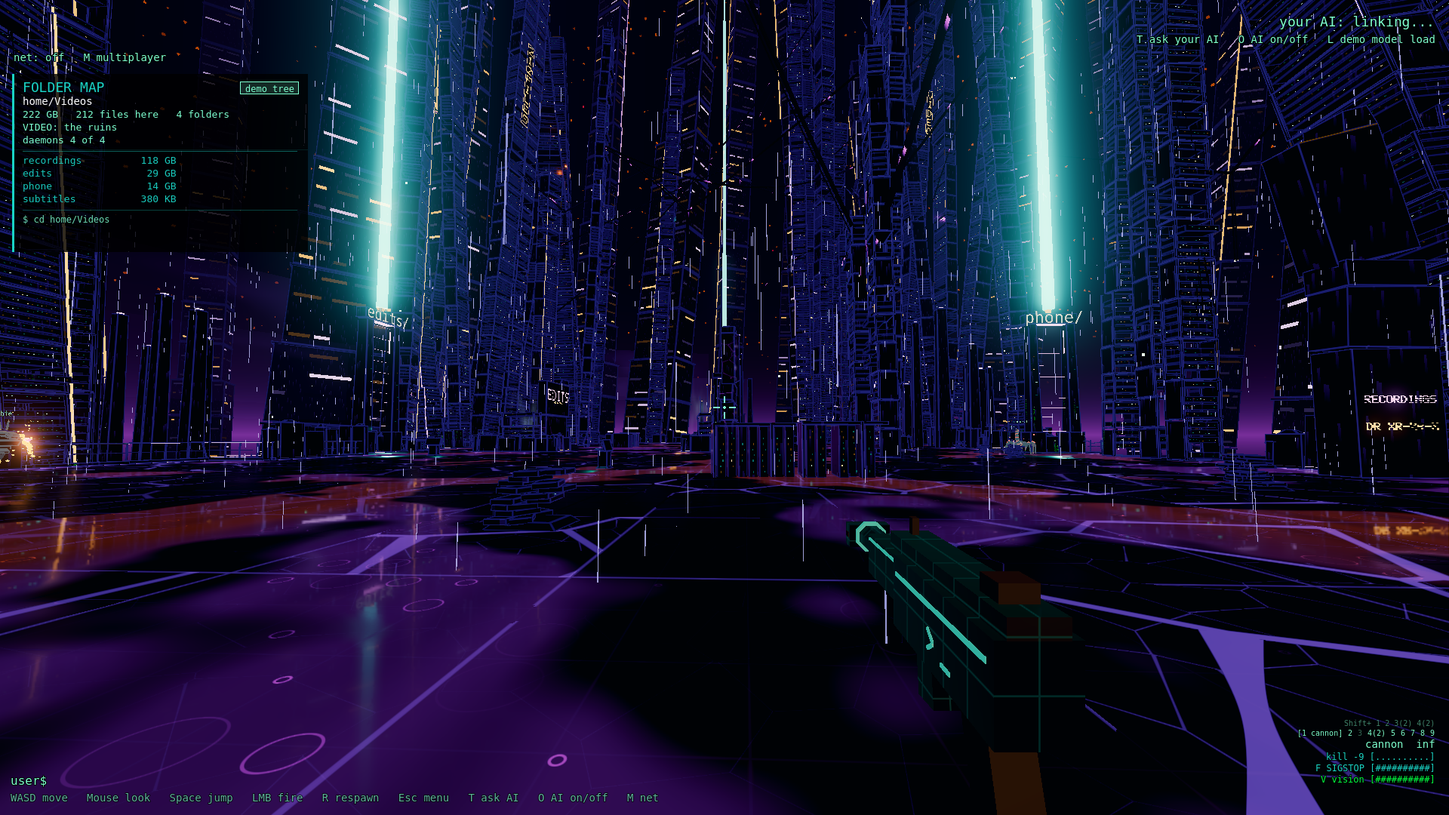
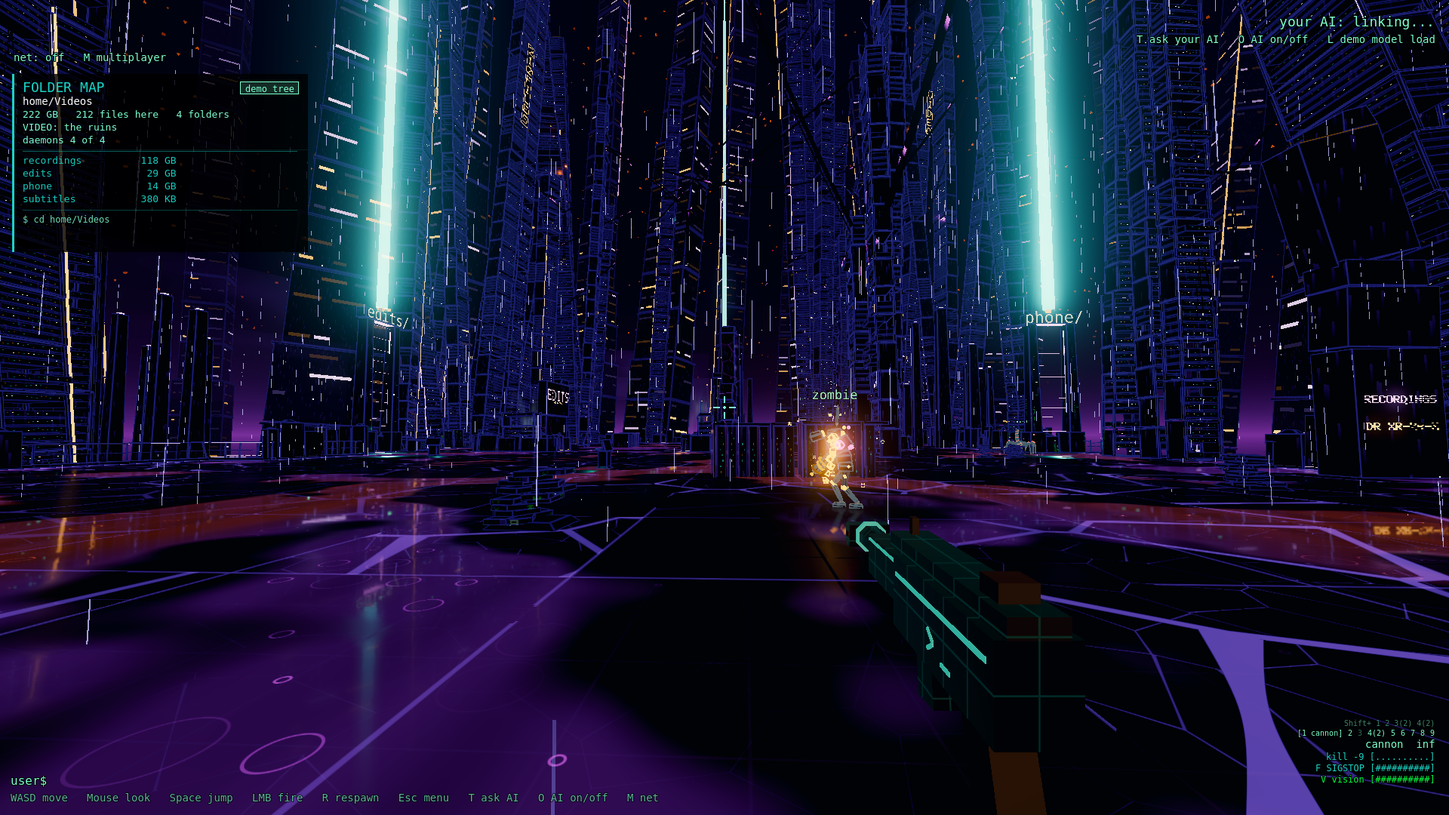
P2 item 7 and the pass's docs: W2's stills retaken with a room's own daemons; P2 done in the README and PRD
WHAT: tools/capture_shots.gd's w2 set stands one of a room's own daemons on the floor in the line of sight before the big room's and the small room's shots (_w2_stage(): the nearest living one moved, facing the camera, nothing added); w2-big (a zombie in Videos) and w2-small (a rogue.d in subtitles) re-shot on the private display, demo data, their alt text saying so. P1's audit line on C37's dropped unlock toasts corrected in DESIGN: M2 (4958fcd) already keeps the waiting toasts across a reload. README: P2 in "Where we are" as done, the Done list, Next, the roadmap row done. PRD v2.5: the P2 row done with its commits, 74 steps, what remains after P2. DESIGN: "P2 as built" in Decided (added after P1's, every existing line kept), item 7 and the first two gates in State.
WHY: the producer's P2 list, item 7: the most visible small known issues; the rest of P1's player-facing list stays open with P1's reasons (a reflection pass, five weapons' launch points, a real-layer change, a new key, by design).

LR-T: p2, polish, w2, captures, docs, prd-v2.5
LR-D: tools, docs
LR-K: p2-item-7, p2-done, w2-stills

diff --git a/README.md b/README.md
@@ -22,7 +22,7 @@
 ## Where we are
 
 - **Pre-alpha.** The latest release is [v0.33.0-prealpha](https://github.com/nixfred/sigkill/releases/tag/v0.33.0-prealpha) (build 33, 2026-10-30, a GitHub pre-release). It came before the opener, so the opener is on `main` only for now.
-- **Built and playable on `main`: the opener, the whole seven-mission campaign, the credits, all seven of M5's world features (W1 to W7) and P1, the first polish pass:**
+- **Built and playable on `main`: the opener, the whole seven-mission campaign, the credits, all seven of M5's world features (W1 to W7), and P1 and P2, the two polish passes:**
   - the Tron arena and its skyline
   - 13 weapons, with light skins, mods and unlocks
   - SIGSTOP bullet time, code-rain vision, root and `sudo`
@@ -154,7 +154,7 @@
     - **The HUD:** a VOICE chip under the round's lines (listening, with a ripple of bars, and the honest line: lines arrive a few seconds after they are said; or off, and why), and a toast for each command heard, in the colour of what it sets off, with what came of it. It shows a command's name, never a word of what was said: no line is kept, logged, shown or sent anywhere, your AI included. Talk from a TV or other media is skipped, and a line that begins "Larry, tell" is never a command.
     - **Try it with no transcript program:** Esc, **Voice commands** plays the arena with a made-up feed of lines, so you can watch it work.
   - **the first polish pass (P1):** the cover drone keeps its recharge through an arena reload (R no longer hands a fresh one straight back), and a match started from a mission, the folder map, the theme shift, keybind gunplay or the packet tracer now reloads into the plain arena instead of leaving its district and daemons standing under the match.
-  - **the second polish pass (P2), under way:** one item at a time, what you see first: this page's stale tags gone; W3's Latte zombie outlined in the theme's red under a light theme, so it no longer melts into the paper; the packet tracer's banners stacked at the top of the screen, each on its own plate and two at most, so INTERCEPTED never sits over the man in the middle you are meant to shoot; the co-op revive ring remade as a ring of segments with a low curtain of light, lit round as the revive fills and red while nobody is on it, readable from across the arena or standing in it; a shot a target refuses now reads as refused, never as a hit (a cold steel ripple where it met, a blocked marker at the crosshair, nothing counted as landed), and the last mission's bolts are drawn bigger in their own deep red; the relay proven carrying every protocol since 10 on this machine alone, a full room of four with everything firing, its packet rate raised to fit it (nothing goes live until Fred says so); then the most visible small known issues.
+  - **the second polish pass (P2), new:** one item at a time, what you see first: this page's stale tags gone; W3's Latte zombie outlined in the theme's red under a light theme, so it no longer melts into the paper; the packet tracer's banners stacked at the top of the screen, each on its own plate and two at most, so INTERCEPTED never sits over the man in the middle you are meant to shoot; the co-op revive ring remade as a ring of segments with a low curtain of light, lit round as the revive fills and red while nobody is on it, readable from across the arena or standing in it; a shot a target refuses now reads as refused, never as a hit (a cold steel ripple where it met, a blocked marker at the crosshair, nothing counted as landed), and the last mission's bolts are drawn bigger in their own deep red; the relay proven carrying every protocol since 10 on this machine alone, a full room of four with everything firing, its packet rate raised to fit it (nothing goes live until Fred says so); and the folder map's stills retaken so a room's own daemons show in them.
   - **the ruins (C36):** the places the missions happen in, all made in code. Decaying server-farm and filesystem ruins:
     - rack towers toppling and half sunk into the abyss, their status lights dying;
     - cut cables swinging and sparking, cracked floors glowing from below, holes into the void;
@@ -169,9 +169,9 @@
     Every district is seeded: the same set always builds the same place, no two racks or monoliths are alike, and every point a mission needs can be walked to from the start. Mission 1 stands in one, and at the vent the world tears from Tron into the ruins. Mission 2 adds a fourth district, the closed terminals, with a dead storefront built into its edge, mission 3 a fifth, the cache lines, with a field of 60 walls that rewrite themselves in its middle, and mission 4 a sixth that is not ruins at all: the records vault, a pristine guarded hall of record stacks (M4 measured its hold at 7.37 ms under the power-saver profile). Mission 6 remakes the C36 `deep_dirs` as the deep directories proper: three terraces stepping down into black water, with its own palette. The GPU time, measured at 1920x1080 on a recent laptop GPU, is about 2.8 ms a frame (C37 measured mission 1's busiest fight, the pack in the plaza: 2.47 ms; M2 mission 2's, the queue awake at the storefront: 2.98 ms; M3 mission 3's, a core forking in the cache lines: 2.53 ms; its final captures read 8.75 and 9.62 ms with the dev machine rebooted into its power-saver profile, the profile's numbers, not the scene's).
 - **Also on `main`, the teaser tool (T1):** `tools/trailer_capture.sh` renders the teaser's raw footage as real in-game clips on demo data ([docs/TRAILER.md](docs/TRAILER.md)).
 - **The teaser:** 70 seconds of that footage, with an original soundtrack, for the top of [playsigkill.com](https://playsigkill.com). The edit and the music are the producer's.
-- **Docs (D1) done:** [the PRD](docs/PRD.md) is the entire, current PRD (v2.5 now, with P2 under way): what is 1.0 and what comes after, every feature, the safety rules, and every chunk with its status.
-- **Done:** C37, mission 1 (`login`) end to end; M2, mission 2 (`defunct`) end to end; M3, mission 3 (`while true`) end to end; M4, mission 4 (`permission denied`) end to end; M5, mission 5 (`sudo !!`) end to end; M6, mission 6 (`nohup`) end to end; M7, mission 7 (`kill -9`, the final mission) end to end; C43, the Audit Trail visor; C44, the credits roll; W1, live process enemies (the process hunt); W2, filesystem maps (the folder map); W3, theme-shift levels (the theme shift); W4, keybind gunplay; W5, the packet tracer arena; W6, split-screen co-op; W7, voice commands; P1, the first polish pass.
-- **Next:** the 1.0 feature plan is complete. What remains before 1.0 waits on Fred: the relay's hosting (room codes stay "not live yet" until then) and a release. P2, the second polish pass, is under way (above). The producer is verifying the latest chunks, and nobody has hand-played M5's world features or the missions yet: every pace and number so far is a scripted bot's, so expect tuning once people play.
+- **Docs (D1) done:** [the PRD](docs/PRD.md) is the entire, current PRD (v2.5 now, with P2): what is 1.0 and what comes after, every feature, the safety rules, and every chunk with its status.
+- **Done:** C37, mission 1 (`login`) end to end; M2, mission 2 (`defunct`) end to end; M3, mission 3 (`while true`) end to end; M4, mission 4 (`permission denied`) end to end; M5, mission 5 (`sudo !!`) end to end; M6, mission 6 (`nohup`) end to end; M7, mission 7 (`kill -9`, the final mission) end to end; C43, the Audit Trail visor; C44, the credits roll; W1, live process enemies (the process hunt); W2, filesystem maps (the folder map); W3, theme-shift levels (the theme shift); W4, keybind gunplay; W5, the packet tracer arena; W6, split-screen co-op; W7, voice commands; P1, the first polish pass; P2, the second polish pass.
+- **Next:** the 1.0 feature plan is complete. What remains before 1.0 waits on Fred: the relay's hosting (room codes stay "not live yet" until then) and a release. The producer is verifying the latest chunks, and nobody has hand-played M5's world features or the missions yet: every pace and number so far is a scripted bot's, so expect tuning once people play.
 - **Try the opener** from source: Esc, then "Play the opener", or start with the flag, `godot --path . -- --demo --opener` (a build of `main` takes it the same way, after `--`). A build of `main` also shows the first-launch card and plays it once by itself; the v0.33.0 release came before the opener.
 - **Play the missions** from source: Esc, then **Missions**, and Enter on `01 login`; `02 defunct` opens once `login` is done, `03 while true` once `defunct` is, `04 permission denied` once `while true` is, `05 sudo !!` once `permission denied` is, `06 nohup` once `sudo !!` is, and `07 kill -9`, the final mission, once `nohup` is (they are solo, so not in a match). To start one at once: `godot --path . -- --demo --mission=login` (or `--mission=defunct`, `--mission=while_true`, `--mission=permission_denied`, `--mission=sudo_bang`, `--mission=nohup`). The v0.33.0 release came before the missions too.
 - **Try the Audit Trail visor:** press I in the arena or a mission, I again to put it away (rebindable in Settings, Controls, as "audit visor"). From source it can start on: `godot --path . -- --demo --visor`.
@@ -2568,7 +2568,7 @@ Status from `git log`. Hashes are the commits that finished each chunk.
 | Website, teaser and docs | T1 the teaser's footage: real in-game clips on demo data, rendered with Movie Maker by `tools/trailer_capture.sh` ([docs/TRAILER.md](docs/TRAILER.md); `b2392e8`, `f17ae86`, `bb82508`, `1087887`) · the 70 second edit and its soundtrack (the producer's) for playsigkill.com · D1 the PRD rewritten as the entire, current PRD (v0.3), this README's "Where we are", three community credits (`e1e658d`, `e79b9e5`) | 🟡 T1 footage and D1 done; the edit, the music and the site are the producer's |
 | M5 Your machine is the world | Filesystem maps, process enemies, theme levels, keybind gunplay, voice commands, packet tracer arena, split-screen co-op · C43 Audit Trail visor, built (`f6d5f8d`) · C44 the in-game credits roll, built (`861b015`, `4d3f012`) · W1 live process enemies, built (`3e74f6c`, `02d3441`) · W2 to W4 built · W5 the packet tracer arena, built (`6cf0855`, `a33539a`, `defffa7`) · W6 split-screen co-op, built (`05e9543`, `9de06b0`, `1357bf6`) · W7 voice commands, built (`3bc895a`, `900480c`, `dc81af9`, `102616f`) | 🟢 C43, C44 and W1 to W7 done: all of M5 |
 | Polish | P1 the first polish pass after M5: the cover drone's recharge kept through a reload, a match started from a mission or a world mode reloading into the plain arena, step 72, this README brought up to date (`3eae2f6`, `82f8237`, `a589d0a` and the docs after them) | ✅ Done |
-| Polish | P2 the second polish pass: the README's stale tags, W3's Latte zombie, W5's banners, W6's revive disc, M7's bolts and flash, the relay's code for protocols 10 to 19 (loopback only), the most visible small known issues | 🟡 In progress: the README, the Latte zombie, the packet tracer's banners, the revive ring, the refused hit and the relay's protocols 10 to 19 done |
+| Polish | P2 the second polish pass: the README's stale tags, W3's Latte zombie, W5's banners, W6's revive disc, M7's bolts and flash, the relay's code for protocols 10 to 19 (loopback only), W2's stills retaken, steps 73 and 74 (`08d0129` to `531bbac` and the commit after them) | ✅ Done |
 | M6 Story campaign | C34 story bible, locked by Fred on 2026-10-30 ([docs/STORY.md](docs/STORY.md), `a80a229`, `431e41a`) · C38 the opener's first 35 seconds on demo data: the fake crash, the fake terminal, the typed lines (`bda0ecc`, `ee41bbd`, `0f94ca7`) · C39 the opener's real-data reader, opt-in and read-only, and wide characters (`8c74319`, `a349d1a`) · C40 the shrink-away reveal and the fall through your directory tree as a city (`e6d0b73`, `2d4466e`) · C41 the AI link and the copy of you named `~`: the HUD alive, your AI live or the scripted guide, the copy walking out of the pit wearing your user name (`7106cec`, `14c7c2b`, `59095b3`) · C42 the `kill -9` forge, the first kill, the title slam, the score, the skip logic and the first launch, and the daemons' voices (`77254c0`, `e04dffe`, `e31bd68`, `ffa5eaa`) · C35 the mission framework: missions as data, the runner, the objective HUD, the Missions screen, the weapon handout and the saves, mission 1 as a first cut (`a724aae`, `aee2e1c`) · C36 the cyberpunk ruins art kit: seeded districts of rack towers, monoliths, cables and signs, three registers that change the world, mission 1 standing in its ruins (`31ef6f0`, `0650508`, `63b99bc`) · C37 mission 1, `login`, end to end: its own finite daemons out of spawn vents, the pack and its elite, the white ICE wall, the breach and the drop into the rain, the gate on what the campaign has handed over, checkpoints (`acfe8b4`, `0ace580`, `fa6e436`) · M2 mission 2, `defunct`, end to end in its own district, the closed terminals: zombies asleep in the rain, the queue at a dead storefront, the parent sealed behind its guard and every zombie threaded to it, the reap; the C37 leftovers (`4958fcd`, `76ddd67`, `149cec5`, `a11c96b`, `f2d5ba6`) · M3 mission 3, `while true`, end to end in its own district, the cache lines: a field of walls that rewrite themselves, runaway swarms and the fork storm, grep and pipe handed over, the loop's four cores forking as the cache fills, code-rain vision unlocked for the beat that needs it, the loop broken and the rain stopped (`6a63d1b`, `f4615bd`, `5a42477`, `042d8a0`; the gate's two test-only fixes `1949e4c`, `8251281`) · M4 mission 4, `permission denied`, end to end in its own district, the records vault: a pristine guarded hall, its own white and hunter ICE through the director, the ICEbreakers and chmod 000 taught, the record with its PID redacted, the escalation and the lights' stutter (`b7f8e4d`, `631d7a4`, `57fcc23`, `721f2a8`, `9fb1433`, `2f94a4d`, `d3ecf13`, `3f90a61`) · M5, M6 and M7: missions 5 to 7, the whole campaign (`310122c`, `452b7ac`, `8457dd1`, `ab556ed`, `9cf6be1`) | 🟢 C34 locked; the opener done (C38 to C42); all seven missions done (C35 to C37, M2 to M7) |
 
 Before M0 came the scaffold (`d086489`), and the decision that the player's AI is the Omarchy default agent landed as its own docs commit (`43b1f74`).
@@ -2939,11 +2939,11 @@ Real in-game captures, demo data only (A1, A2b, A3, A4, C27b, C28, A5, I1, I2, I
 
 <table>
   <tr>
-    <td align="center" width="50%"><img src="docs/media/w2-big.png" alt="The Videos room, a 222 GB folder: a canyon of violet neon towers in the rain, three cyan beams of light rising from the doors at its edges, edits/ and phone/ on their lintels"><br><em>A huge folder's room, its doors' beams rising.</em></td>
+    <td align="center" width="50%"><img src="docs/media/w2-big.png" alt="The Videos room, a 222 GB folder: a canyon of violet neon towers in the rain, three cyan beams of light rising from the doors at its edges, edits/ and phone/ on their lintels, one of its zombies on the floor ahead"><br><em>A huge folder's room, its doors' beams rising.</em></td>
     <td align="center" width="50%"><img src="docs/media/w2-doors.png" alt="A lit bridge leaving a portal at the room's edge, out over the void to a floating island with a glowing grid floor and dark towers on it"><br><em>Its biggest door: the bridge to the room beyond.</em></td>
   </tr>
   <tr>
-    <td align="center" width="50%"><img src="docs/media/w2-small.png" alt="The subtitles room, a 380 KB folder: a small teal Tron hall with low towers, an amber beam rising from the door back up at its far end"><br><em>A tiny folder off it: a small low Tron hall.</em></td>
+    <td align="center" width="50%"><img src="docs/media/w2-small.png" alt="The subtitles room, a 380 KB folder: a small teal Tron hall with low towers, one of its rogue.d on the floor, an amber beam rising from the door back up at its far end"><br><em>A tiny folder off it: a small low Tron hall.</em></td>
     <td align="center" width="50%"><img src="docs/media/w2-maze.png" alt="Inside the node_modules maze: a corridor between walls of black glass taller than the player, lime code falling down them, an install bar half full, a red ERR wall at the left, package names on the walls"><br><em>node_modules: the maze.</em></td>
   </tr>
   <tr>

diff --git a/docs/DESIGN.md b/docs/DESIGN.md
@@ -102,6 +102,7 @@ Native first-person shooter for Omarchy (Arch + Hyprland). You are the nixfred >
 - W6 as built (ours, 2026-11-01, W6): split-screen co-op (PRD 5.5), a mode of the free arena (scripts/coop/). Reached from the Esc menu ("Split-screen co-op", after "Packet tracer"; "Leave split-screen co-op" while it runs; the reload's command `$ tmux split-window -h`), or --coop with --demo or under --script; local only, one world mode at a time with the hunt, the map, the theme shift, keybind gunplay and the packet tracer (each clears the others). CoopHunt (coop_hunt.gd) begins in the regular arena: the arena's daemons parked, ICE stood down, the rounds held; CoopInput.ensure() makes player 2's actions and both players' tile keys in the input map (remove() takes them out as it ends, so the map outside the mode is the game's own); player 2 a second scenes/player.tscn in seat 2 (player.gd: `seat`, `actions` (a game action to its own, or the empty coop_none), mouse look seat 1's only, seat 2 always engaged, its camera never current), placed beside player 1 before it enters the tree; player 1's right stick off (`stick_look`) and both players' abilities gated off. CoopScreen (coop_screen.gd): two SubViewports on the arena's World3D, a camera each taking its player's camera every frame (place with the shot jolt, field of view, planes), the window's own 3D view off (`disable_3d`) while the split stands; tiles laid out in the room under a bar (gaps 10 and 8 px, a 26 px title bar, a 2 px border, at 1080 lines), side by side or stacked, a resize eased with a small overshoot (0.32 s), a flip blended (0.45 s); render layers keep each player's body out of its own tile and its held weapon model out of the partner's, the visor's lines in tile 1 only. The trade on the player (`aim_scale` on look, `steady_scale` on each pellet's angle and the recoil, `view_tan` on the field of view's tangent: the tile's height share). CoopBody (coop_body.gd) each player's figure for the partner; CoopTileHud (coop_tile_hud.gd) each tile's HUD; CoopHud (coop_hud.gd) the bar, the banners, the results card; CoopSound (coop_sound.gd) twelve sounds made in code; shaders/coop_tile.gdshader each tile's moments (down, hurt, the resize's wash). The director (daemon_director.gd `coop`) hunts players 1 and 2 through the mode's two lives (prey_point, up, attackable, damage); a kill is credited by `struck_by` (target_dummy.gd), set by the player's `_strike` before every hit of its weapons; main.gd's credit gives player 2's kills to player 2's own sudo count, never to the unlocks. The visor's HUD reparented into tile 1's SubViewport, so it reads that tile's camera. hud.gd `set_coop()` hides the play parts and quiets T and M while the mode runs. Step 70: tests/coop_test.gd (45 checks).
 - W7 as built (ours, 2026-11-02, W7): voice commands (PRD 5.5), the last of M5's world features (scripts/voice/). The game never opens a microphone, captures audio or links a speech library: it reads lines a transcript program already wrote, as a client only. VoiceCommands (voice_commands.gd), made by the arena beside the world modes and present everywhere the player plays alone (the free arena, its world modes, a mission; off in a match and in co-op), has two sources and one reading: the voice demo's made-up feed (voice_demo.gd, scripted in-process, Esc "Voice commands" after "Split-screen co-op", "Leave voice commands", or --voice with --demo or under --script; the reload's command `$ tail -f transcript`), or the player's own feed, used only with an address in GameSettings' new [voice] feed_url (empty by default, at most 64 characters, refused by the settings unless http on 127.0.0.1, [::1] or localhost; VoiceFeed.check), that address checked again, and the real-data opt-in on (AuditVisor.real_gate_for: real-machine data and opener data, never a demo run); without all three no HTTPRequest exists. It asks every 0.75 s with one non-threaded HTTPRequest (no redirects, a 256 KB cap, a 1 s wall-clock timeout of its own), each answer read on a WorkerThreadPool task by VoiceFeed.digest(), which returns numbers and command ids only (every line's text matched and dropped inside it), each read stamped with the feed's generation so one begun for an earlier feed is dropped; down, junk, an error or a redirect turn voice off quietly with a backoff of 2 to 30 s. VoiceMatch (voice_match.gd): a line, its wake word and filler off, must be a command phrase within an edit distance by its length (or a known mishearing); a line opening "Larry, tell" never is. Commands and keys: cover me (P, new: cover_me in Controls, player.gd cover_pressed, gated as an ability), drop a breaker (U), reload (E), visor (I), pause (SIGSTOP, F), resume (SIGCONT). CoverDrone (cover_drone.gd): your AI's drone high on the player's right for 10 s, picking a visible daemon within 30 m (front first), a 0.55 s lock and a 20-damage bolt, then a 40 s recharge (VoiceCommands.cover_wait, the run's); its kills (source "cover") are note_kill only in main.gd's credit (no sudo streak, no feat). VoiceHud (voice_hud.gd, in hud.gd before the unlock toast, hidden in co-op): the chip, the cover readout, the toasts; VoiceSound (voice_sound.gd): seven sounds made in code. The Privacy and AI section's "voice feed" box (pause_menu.gd). Step 71: tests/voice_test.gd (53 checks) with a fake feed of the test's own on 127.0.0.1 and a canary phrase; check.sh also searches the step's output for the canary.
 - P1 as built (ours, 2026-11-02, P1): the first polish pass after M5, under Fred's rule "Work on the pieces that the user sees first": no new features, modes or keys. Fixed where they broke, each pinned by a check in step 72 (tests/polish_test.gd): the cover drone, freed any way but its own leaving (an arena reload under it), starts its full recharge as it goes (CoverDrone's predelete); a match starting during a mission, the folder map, the theme shift, keybind gunplay or the packet tracer ends it and reloads into the plain arena, the mode by its own Esc way out (SceneTear, "$ exit") and the mission by the runner's free_play(), so no district or mission daemon stands under the match (the session outlives the reload, as since C13). The README read top to bottom and brought up to date. Every known issue in State audited and marked fixed or open with its reason (State, "P1 as built").
+- P2 as built (ours, 2026-11-02, P2): the second polish pass, the producer's list in order, player-facing first, no new features, modes or keys, each item its own checkpoint (built, tested, gated, committed, pushed). The README's stale tags; W3's Latte zombie outlined under a light theme (LightOutline, an inverted hull in the theme's red, never under a dark theme, nothing but a zombie); W5's banners in one plated stack at the top (two at most, never over the crosshair); W6's revive ring remade (segments lit round, a curtain of light, red at 0%); a refused hit (M7's shell) not a landed one (no hot flash, no hit marker: a steel hexagon ripple and the blocked marker, Palette.STEEL) and the shell's bolts in their own deep red, bigger; the relay carrying every protocol from 10 to 19, proven on loopback in a full room of four, its room rate 1600 a second (400 dropped one datagram in six); W2's stills retaken with a room's own daemons in them. Steps 73 and 74. Nothing deployed (State, "P2 as built").
 
 ## Proposed (waiting on Fred)
 - Relay hosting/budget for matchmaking; local-only vs cloud AI keys; windowed playtests on the dev machine; first playable = M1+M2 before multiplayer (producer pick).
@@ -995,3 +996,5 @@ Native first-person shooter for Omarchy (Arch + Hyprland). You are the nixfred >
     - Decided (ours): the room is the relay's full four, not the shipped game's two (resources/net.tres max_players): the test's own net tuning sets four, the relay's worst case; a shipped match sends about a third of it (224 a second in the first run's two-player room).
     - Decided (ours): the rate is measured on the game's own clock (datagrams over frames / 60): four arenas in one process run slower than real time, so packets per real second would understate a real match; the relay's own busiest real second is checked against its cap too.
     - Decided (ours): 1600 a room, about two and a half times the measured rate (663 a second) and well over the busiest real second seen (960): an abuse cap, not a throttle, with room for bursts (a respawn, everyone firing at once); 64 rooms at the cap is about 100,000 datagrams a second in all, which a relay host can see in its counters.
+  - (7) The most visible small known issues, P1's player-facing list read again: W2's stills showed rooms with their daemons out of frame, so tools/capture_shots.gd's w2 set stands one of a room's own daemons on the floor in the line of sight before the big room's and the small room's shots (_w2_stage(): the nearest living one, moved, facing the camera; nothing added), and w2-big and w2-small are re-shot (a zombie in Videos, a rogue.d in subtitles). The audit's "C37's quitting during the end's hold dropping the unlock toasts" was stale: M2 (`4958fcd`) keeps the waiting toasts across a reload (UnlockToast's queue is the run's), so the next screen tells them; corrected here, nothing to change. The rest of P1's player-facing list stays open with P1's reasons: M6's water (a reflection pass), A1's projectiles from the eyes (five weapons and the host's judging), the opener's "node" (a real-layer change), a district's first build hitch (behind the tear), W4's line to a daemon (by design), W6's player 2 with no visor key (a new key, which a polish pass does not add), C35's daemons behind the Esc menu (no pause, by design).
+  - Decided (ours): the gates, each on a worktree pinned at its commit with its own private user data: `d6a052a` (items 1 and 2) 73 of 73, CHECK PASSED, ending 11:46:00 AM EST; `f8e495e` (items 3 and 4) 73 of 73, CHECK PASSED, 12:05:50 to 12:34:40 PM EST; `531bbac` (items 5 and 6) and the last commit's are below. No flake reruns so far.

diff --git a/docs/PRD.md b/docs/PRD.md
@@ -544,7 +544,7 @@ One small chunk at a time, from a producer brief: exact goal, files to touch, ac
   - Never force push, and never rewrite history.
   - Commits carry no Co-Authored-By trailer and no session link.
   - `git remote -v` before every commit. Before every push, a privacy grep of the diff and a secret scan (the repository is public).
-- **The gate is `scripts/check.sh`:** gdparse, a headless import, a headless 300-frame run and the headless tests, 72 steps as of P1, the first polish pass.
+- **The gate is `scripts/check.sh`:** gdparse, a headless import, a headless 300-frame run and the headless tests, 74 steps as of P2, the second polish pass.
   - It runs in the foreground, and it is green before any report.
   - A known flake may be rerun once, and the report says so.
 - **Self-review, the current rule:** Codex bug runs are paused (Fred, 2026-10-28 8:04 PM ET), so Larry reviews each chunk's full diff himself before the report. He looks for bugs, Godot API misuse, frame-rate dependence, edge cases, safety-rule violations and anything private.
@@ -572,10 +572,10 @@ Fred, 2026-10-30 6:17 PM ET: "Work on the pieces that the user sees first." What
 6. P1, the first polish pass after M5 (no new features, modes or keys): done (8.2).
 7. 1.0.
 
-What remains for 1.0, after P1: the relay's hosting (open question 1) and a release on Fred's yes (with its own checklist, docs/RELEASE_CHECKLIST.md), both waiting on Fred; and the producer's verification of the latest chunks (W7's runs alongside P1). The 1.0 feature plan is complete: the story, the opener, all seven missions, the visor, the credits and all seven of M5's world features (live process enemies, filesystem maps, theme-shift levels, keybind gunplay, the packet tracer arena, split-screen co-op and voice commands) are built. Nobody has played M5's world features or the missions by hand yet: every pace is a scripted bot's and every tuning number is untuned by play. P1 fixed the known issues that were cheap and player-facing (the cover drone's recharge through a reload; a match started from a mission, the folder map, the theme shift, keybind gunplay or the packet tracer leaving its district standing) and brought the README up to date; every known issue still open is in docs/DESIGN.md's State under "P1 as built", each with the reason it stays open.
+What remains for 1.0, after P2: the relay's hosting (open question 1; its code now proven on loopback for every protocol since 10, P2) and a release on Fred's yes (with its own checklist, docs/RELEASE_CHECKLIST.md), both waiting on Fred; and the producer's verification of the latest chunks (W7's and P1's, and now P2's). The 1.0 feature plan is complete: the story, the opener, all seven missions, the visor, the credits and all seven of M5's world features (live process enemies, filesystem maps, theme-shift levels, keybind gunplay, the packet tracer arena, split-screen co-op and voice commands) are built. Nobody has played M5's world features or the missions by hand yet: every pace is a scripted bot's and every tuning number is untuned by play. P1 fixed the known issues that were cheap and player-facing (the cover drone's recharge through a reload; a match started from a mission, the folder map, the theme shift, keybind gunplay or the packet tracer leaving its district standing) and brought the README up to date; every known issue still open is in docs/DESIGN.md's State under "P1 as built", each with the reason it stays open.
 
 ### 8.2 Every chunk and its status
-Statuses are taken from `git log` (2026-11-02, after P1): **done**, **in progress**, **next** or **planned**. The hashes are the commits that finished each chunk. Before M0 came the scaffold (`d086489`), and the decision that the player's AI is the Omarchy default agent landed as its own docs commit (`43b1f74`).
+Statuses are taken from `git log` (2026-11-02, after P2): **done**, **in progress**, **next** or **planned**. The hashes are the commits that finished each chunk. Before M0 came the scaffold (`d086489`), and the decision that the player's AI is the Omarchy default agent landed as its own docs commit (`43b1f74`).
 
 **M0 Foundations**
 
@@ -685,7 +685,7 @@ Statuses are taken from `git log` (2026-11-02, after P1): **done**, **in progres
 | Chunk | What | Status | Commits |
 |---|---|---|---|
 | P1 | The first polish pass: the cheap player-facing known issues fixed where they break (the cover drone out when the arena reloads starts its recharge; a match started from a mission, the folder map, the theme shift, keybind gunplay or the packet tracer reloads into the plain arena, its district gone), each pinned by a check in step 72 (tests/polish_test.gd, 14 checks); the README brought up to date (the game as built, every status, flag and step); the rest of the known issues audited, each marked fixed or open with its reason (docs/DESIGN.md, State). | done | `3eae2f6`, `82f8237`, `a589d0a` and the docs after them |
-| P2 | The second polish pass, one item at a time, player-facing first: (1) the README's stale "new in" tags gone, every mode's try-it line checked; (2) W3's Latte zombie; (3) W5's INTERCEPTED banners; (4) W6's revive disc; (5) M7's bolts and refused-hit flash; (6) the relay code for protocols 10 to 19, proven on loopback only (code only: nothing deployed); (7) the most visible small known issues. | in progress: (1) to (6) done | see docs/DESIGN.md State, "P2 as built" |
+| P2 | The second polish pass, one item at a time, player-facing first: (1) the README's stale "new in" tags gone, every mode's try-it line checked; (2) W3's Latte zombie outlined in the theme's red under a light theme (shaders/light_outline.gdshader); (3) W5's banners in one plated stack at the top, INTERCEPTED never over the man in the middle; (4) W6's revive ring remade, segments lit round with a curtain of light; (5) a refused hit (M7's shell) reads as refused, never as a hit, and the shell's bolts in their own deep red; (6) the relay carrying every protocol from 10 to 19, proven on loopback in a full room of four (its room rate raised from 400 to 1600 a second: 400 dropped one datagram in six); (7) W2's stills retaken with a room's own daemons in them, and the audit's stale line on C37's toasts corrected. Steps 73 (tests/polish2_test.gd) and 74 (tests/relay_match_test.gd). Nothing deployed. | done | `08d0129`, `d6a052a`, `962fbe5`, `f8e495e`, `7c675ee`, `531bbac` and the commit after them |
 
 **M6 Story campaign** (5.6, 5.7). The opener chunks are built after C10 boot and C7 derezz exist.
 
